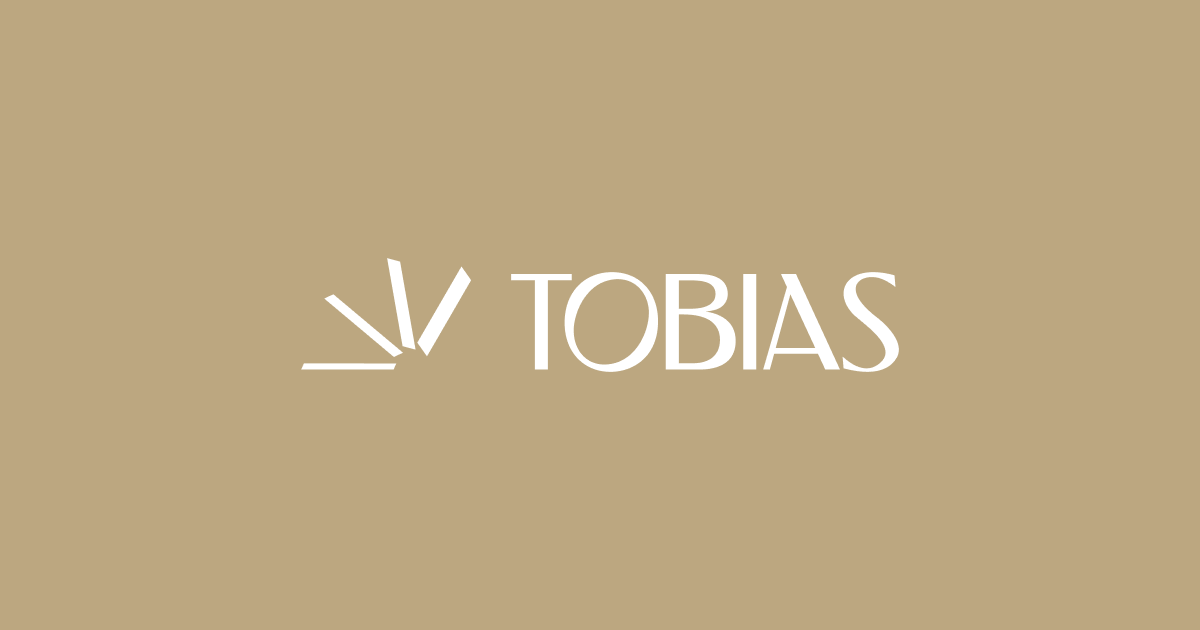
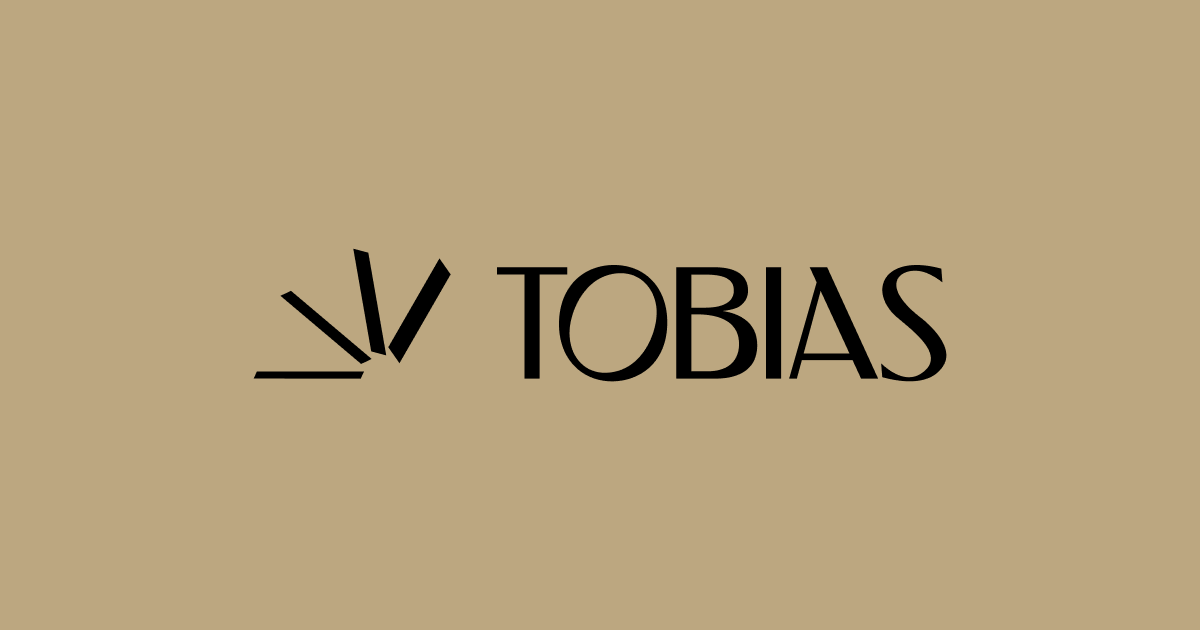
Cruzamento mais curto na parede de clientes, fundo #DCE4E2 no Sobre e Formulário, e social-image com a marca em preto
- Clientes: o fade entre grupos de logos caiu de 1,2s para 0,5s — o
  cliente achou a troca lenta;
- Sobre (primeira faixa, a da matéria) e Formulário: fundo trocado de
  --cor-menta para --cor-cinza-claro (#dce4e2), token que já existia
  com essa cor. O hover da lista de países continua em --cor-menta,
  que é outro uso do mesmo token, não fundo de seção;
- social-image.png: mesma composição, marca em preto no lugar de
  branco.

Changed region(s): [[0.2158, 0.3921, 0.8017, 0.6032]]

diff --git a/src/styles/tokens.css b/src/styles/tokens.css
@@ -26,11 +26,17 @@
   --cor-petroleo: #3c757c; /* seção Marjorye, tela de carregamento, ornamento do formulário */
   --cor-terracota: #7a3225; /* seção Thiago */
   --cor-bege: #bca780; /* footer */
-  --cor-menta: #eef6f4; /* fundos alternados (história, contato) */
-  /* Este cinza é SÓ da parede de clientes (#76:181 e irmãos) — o Figma o
-     confirma lá e em nenhum outro lugar. As divisas das Áreas, do card do
-     Fale conosco e dos campos do formulário são o `--cor-cinza-divisa`
-     abaixo; usá-lo aqui foi um engano que durou até 2026-08-06. */
+  /* Só o hover/ativo da lista de países do formulário usa este verde desde
+     2026-08-13 — até então também era o fundo da história e do formulário,
+     que passaram para o `--cor-cinza-claro` abaixo (pedido do cliente). */
+  --cor-menta: #eef6f4;
+  /* Nasceu SÓ da parede de clientes (#76:181 e irmãos) — o Figma o confirma
+     lá e em nenhum outro lugar; usá-lo como DIVISA em outro lugar foi um
+     engano que durou até 2026-08-06 (as divisas das Áreas, do card do Fale
+     conosco e dos campos do formulário são o `--cor-cinza-divisa` abaixo).
+     Desde 2026-08-13 ele também é FUNDO da primeira faixa do Sobre e da
+     seção do formulário, a pedido do cliente — usos diferentes, mesma
+     tinta, então continua um token só. */
   --cor-cinza-claro: #dce4e2;
   /*
    * A divisa de 1px que abre os cartões das Áreas (#105:76), o card do Fale
